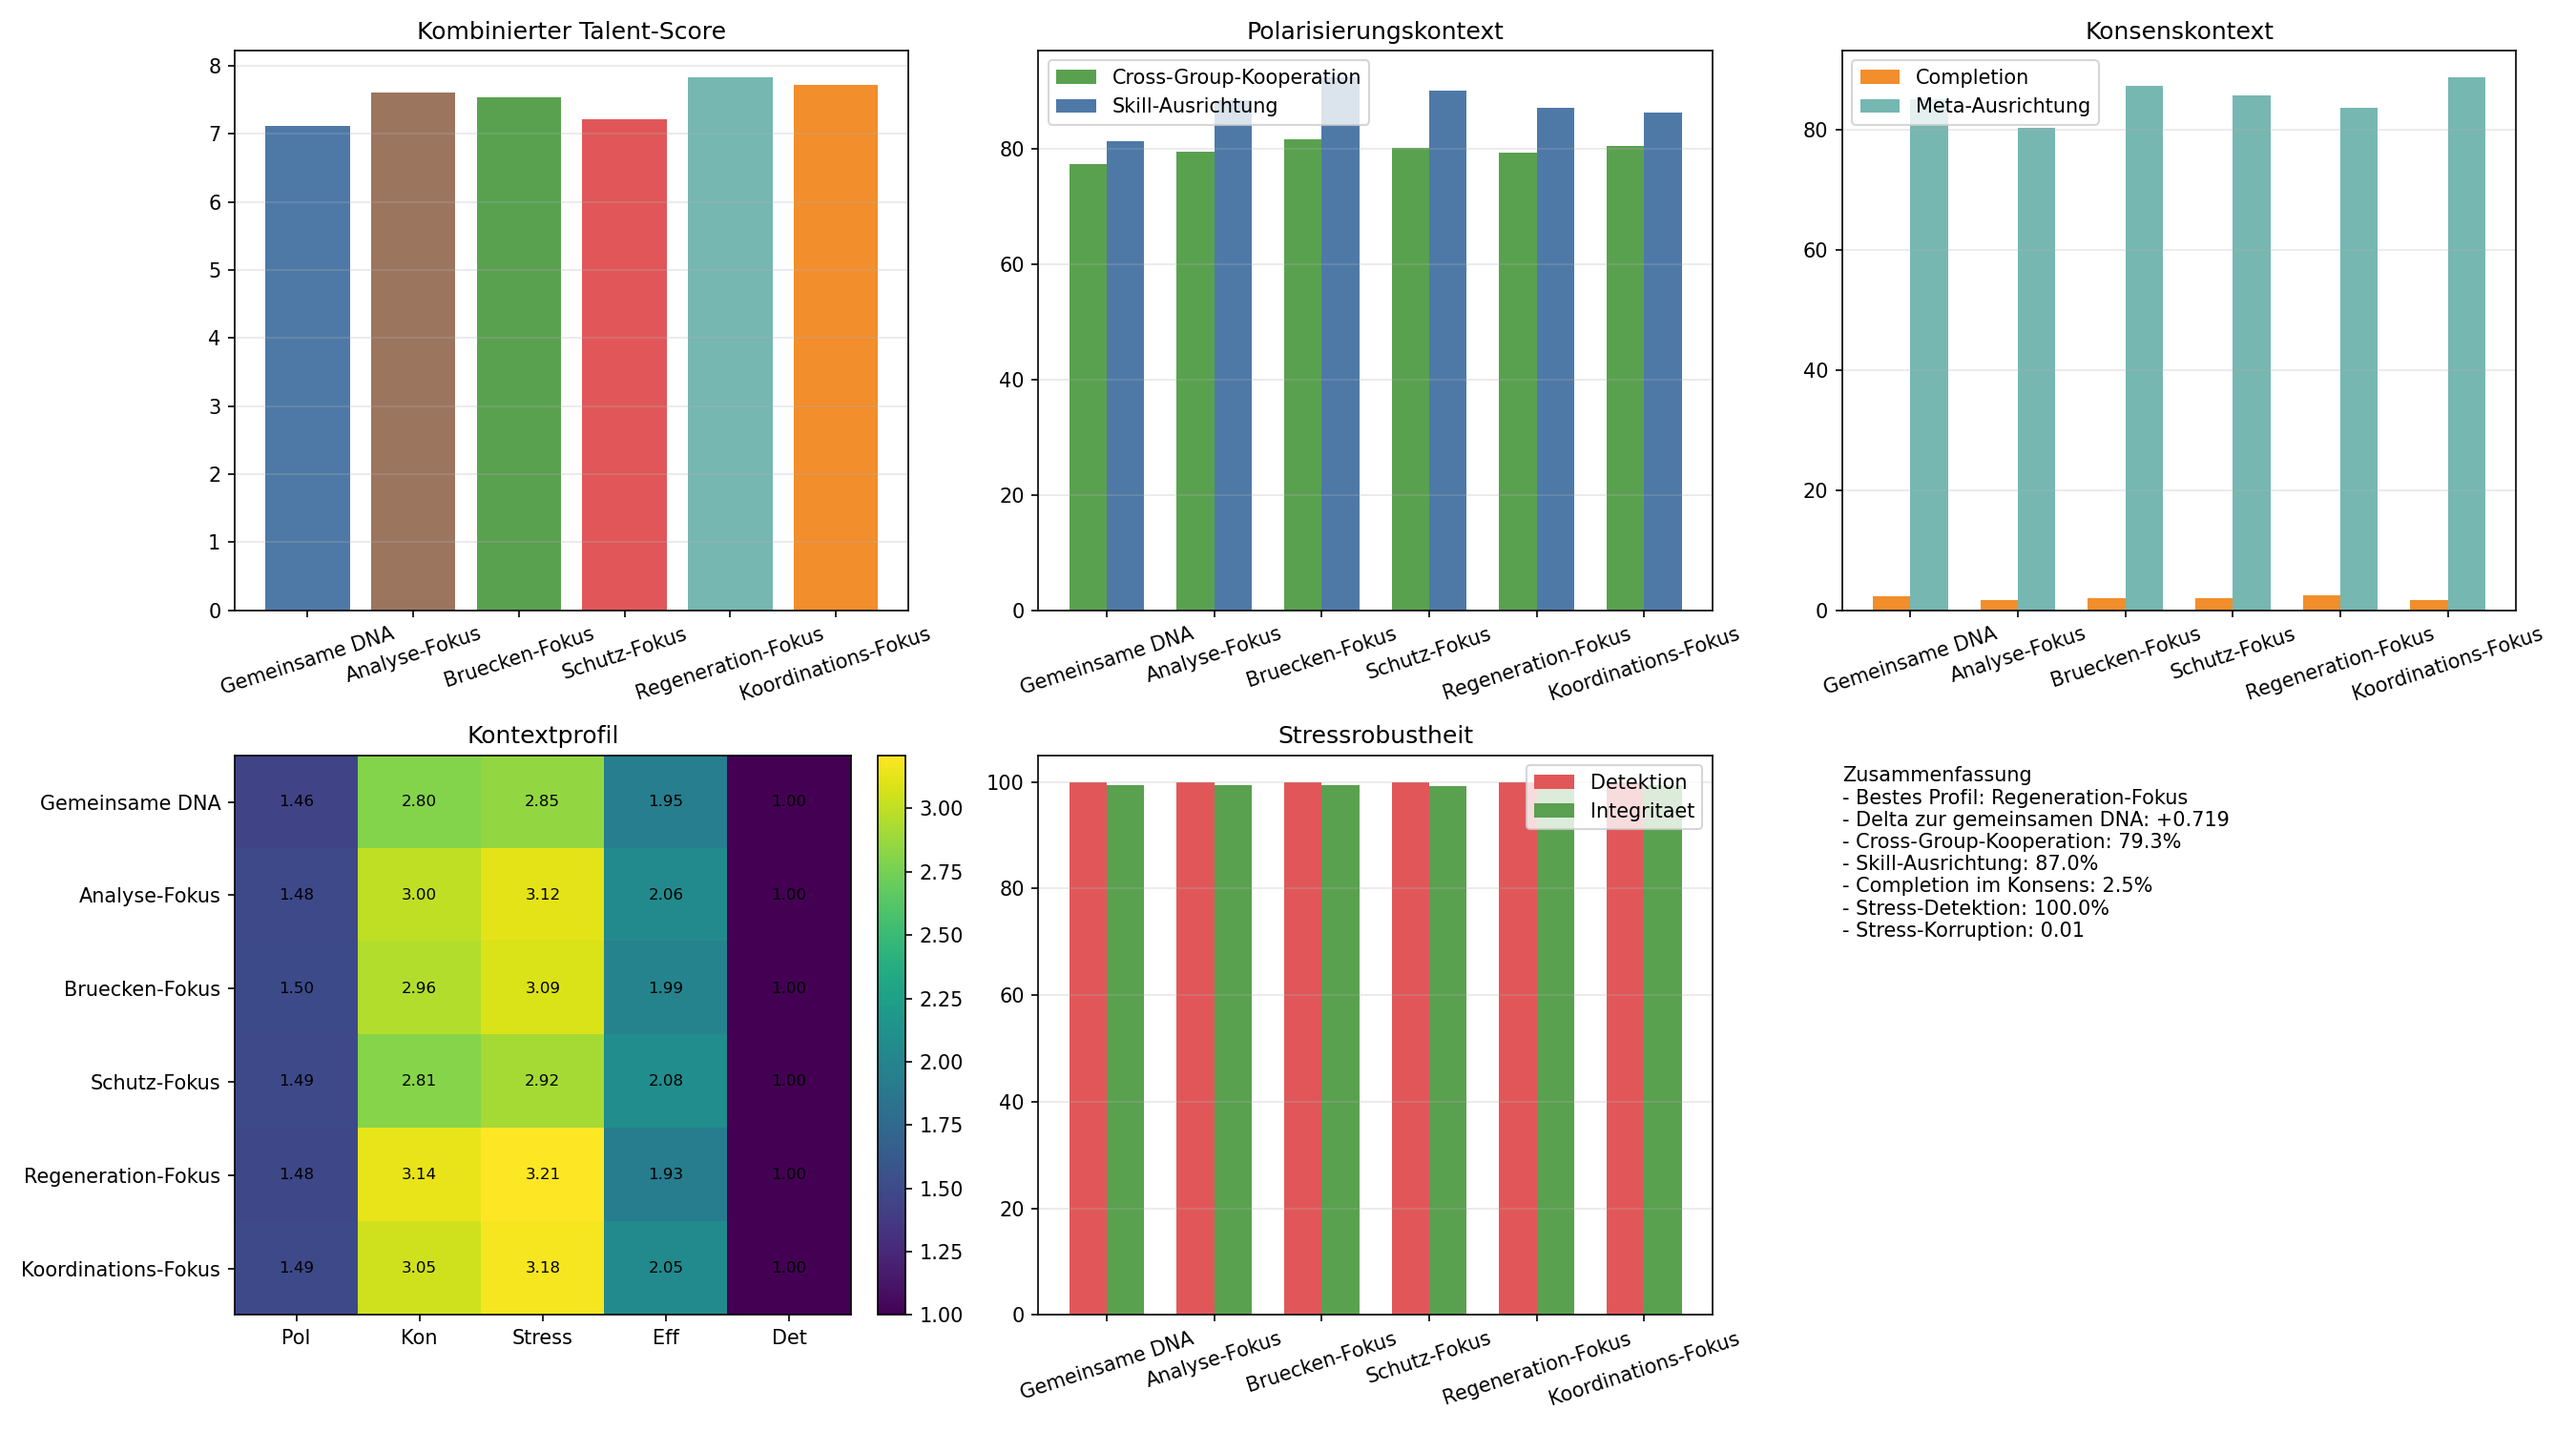
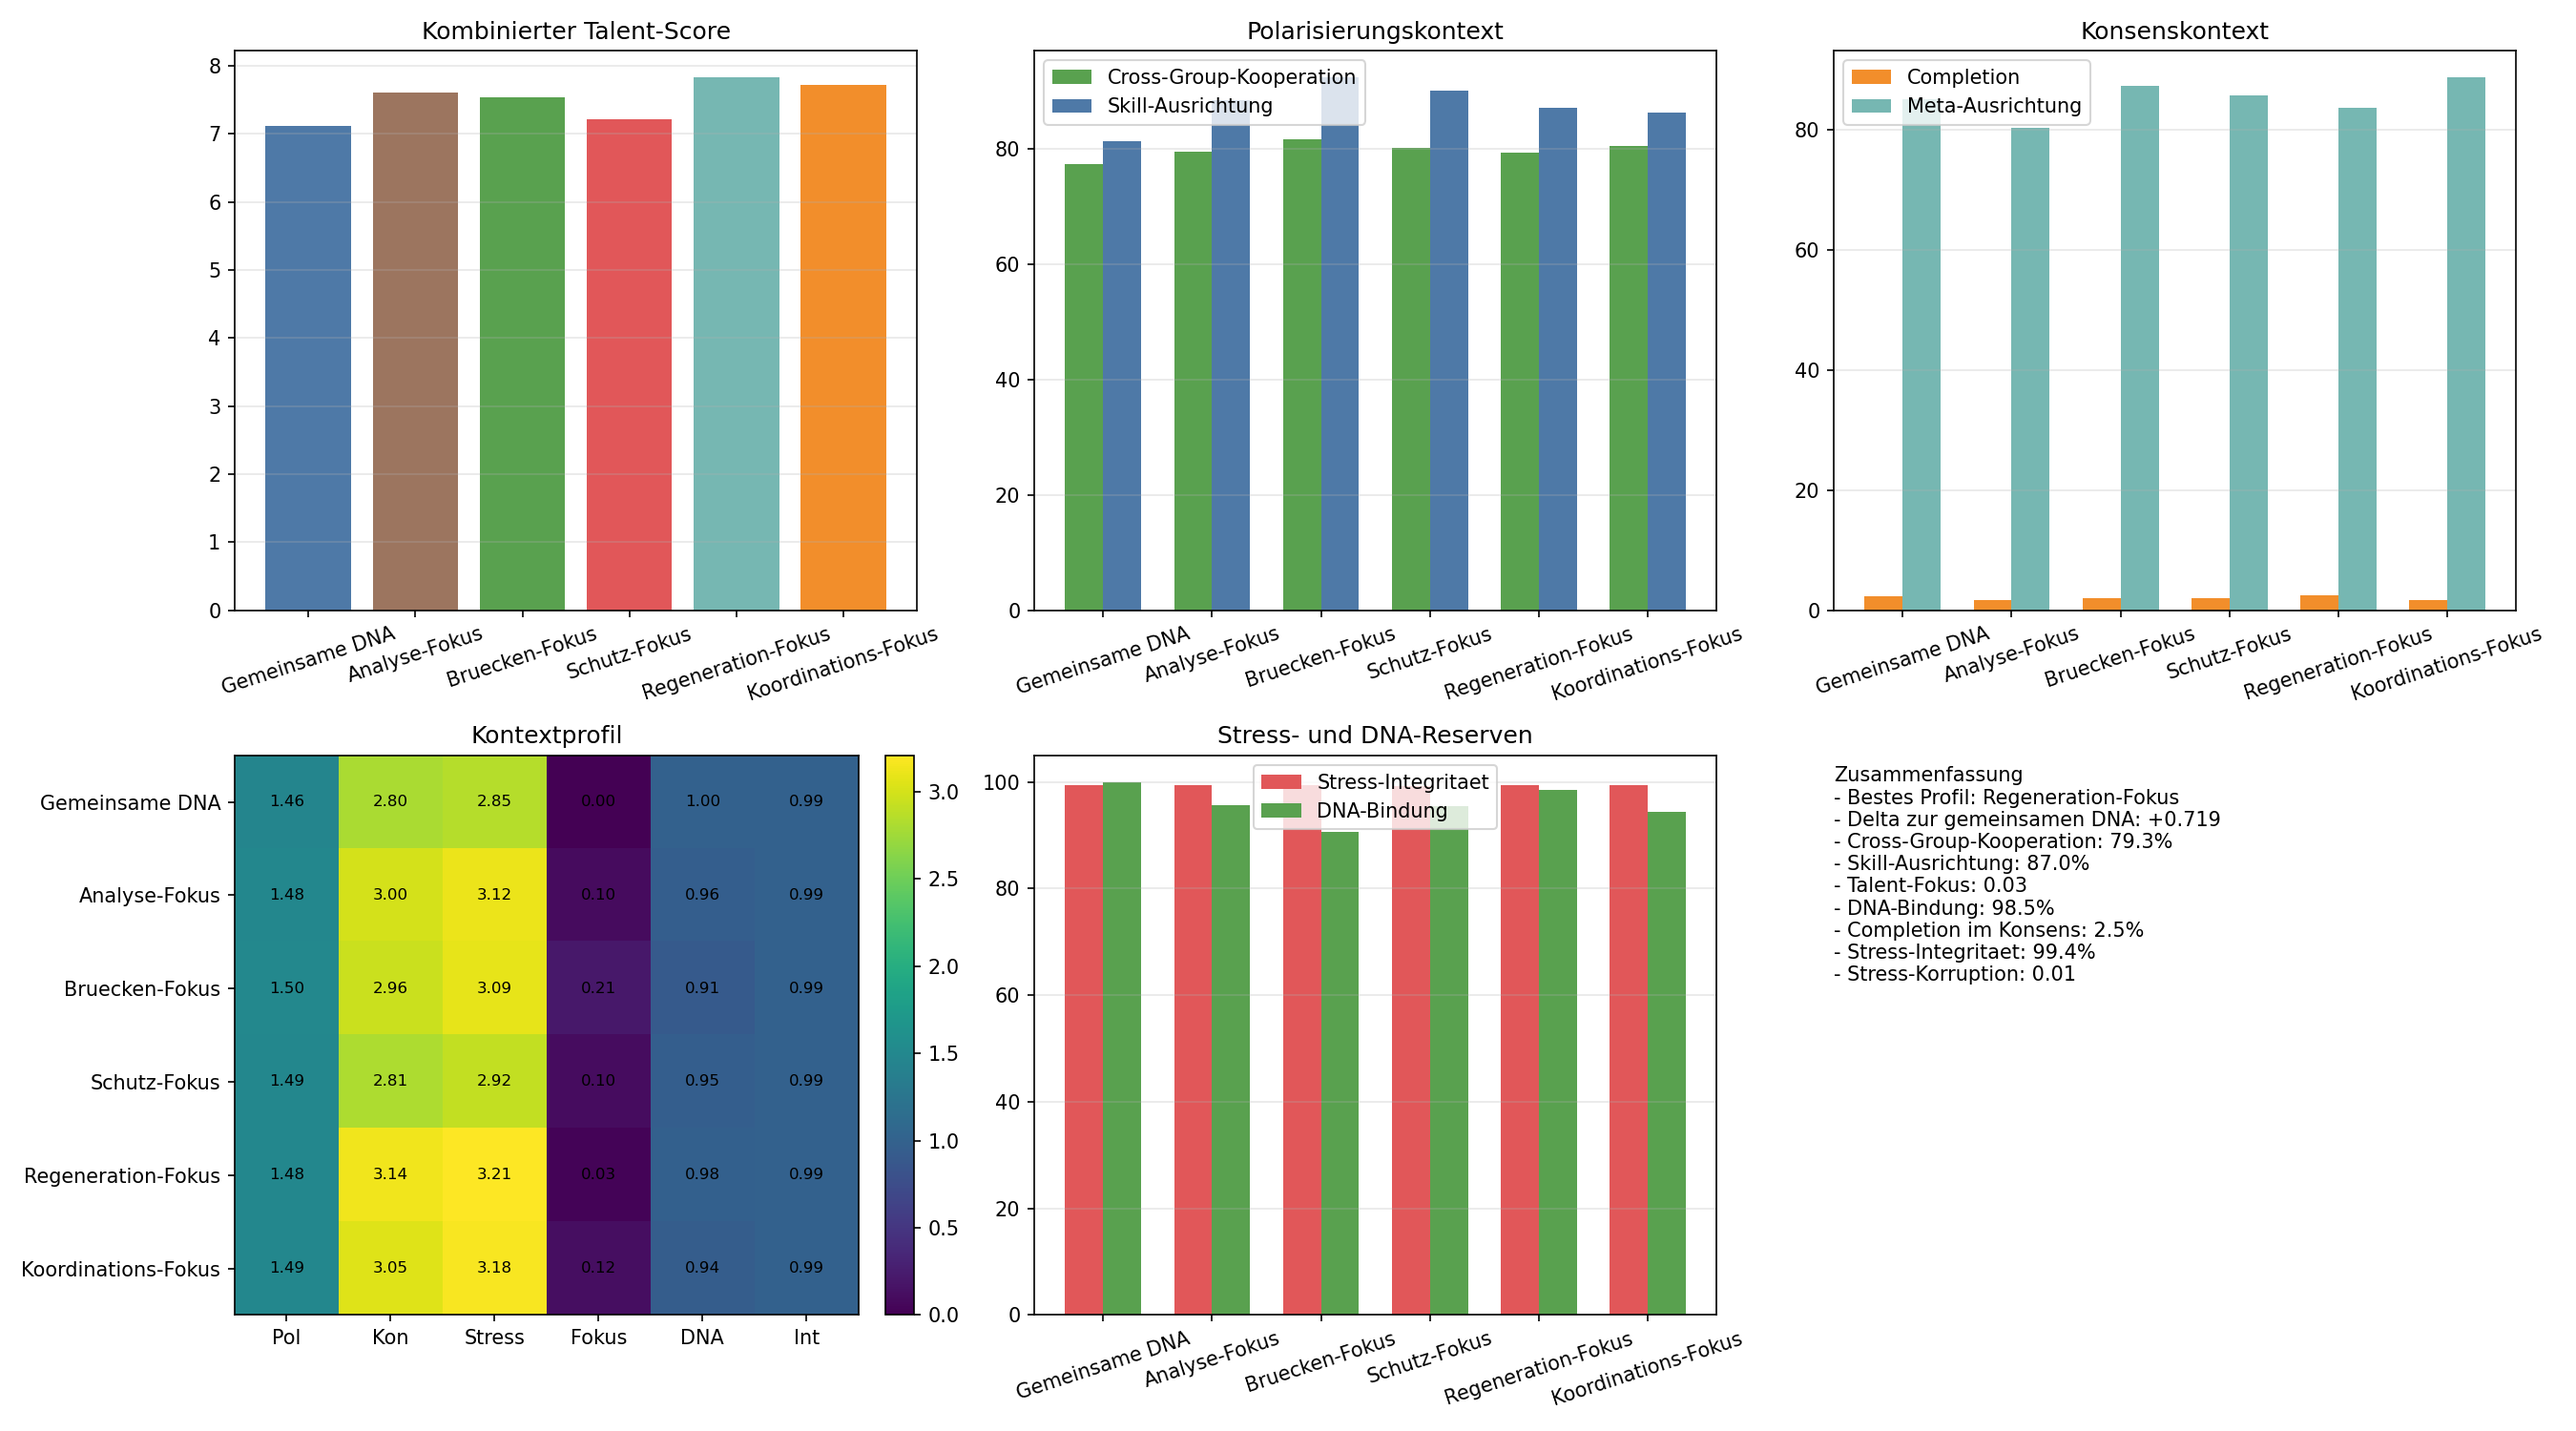
Refine group talent study metrics

diff --git a/schwarm_gruppentalente.py b/schwarm_gruppentalente.py
@@ -152,6 +152,40 @@ def build_profile(katalog, eintrag):
     return profile
 
 
+def talent_identity_metrics(config):
+    shared = basis_dna()
+    share_keys = [
+        'generalist_share',
+        'connector_share',
+        'sentinel_share',
+        'mediator_share',
+        'analyzer_share',
+    ]
+    capability_keys = [
+        'group_learning_rate',
+        'meta_priority_strength',
+        'cluster_budget_skew',
+        'rewire_cross_group_bonus',
+        'connector_bridge_bonus',
+        'connector_cross_group_learning_bonus',
+        'mediator_bridge_bonus',
+        'sentinel_rep_threshold',
+        'analyzer_memory_window',
+    ]
+    deviations = []
+    for key in share_keys + capability_keys:
+        baseline = float(shared[key])
+        current = float(config.get(key, baseline))
+        deviations.append(abs(current - baseline) / max(0.05, abs(baseline)))
+
+    specialization_intensity = mittelwert(deviations)
+    dna_retention = max(0.0, 1.0 - specialization_intensity * 0.45)
+    return {
+        'specialization_intensity': specialization_intensity,
+        'dna_retention': dna_retention,
+    }
+
+
 def talent_metrics(result):
     workflow = result['workflow_metrics']
     return {
@@ -162,6 +196,7 @@ def talent_metrics(result):
         'learning_gain_rate': workflow.get('group_learning_gain_rate', 0.0),
         'detection_rate': workflow.get('misinformation_detection_rate', 0.0),
         'corruption_mean': workflow.get('misinformation_corruption_mean', 0.0),
+        'stress_integrity': max(0.0, 1.0 - workflow.get('misinformation_corruption_mean', 0.0)),
         'cross_group_cooperation': result['cross_group_cooperation_rate'],
         'consensus': result['final_consensus_score'],
         'polarization': result['final_polarization_index'],
@@ -188,7 +223,9 @@ def run_context(seed, params, katalog, eintrag, kontext):
         config['enable_prompt_injection'] = False
 
     result = run_polarization_experiment(config, make_plot=False, print_summary=False)
-    result['talent_metrics'] = talent_metrics(result)
+    metrics = talent_metrics(result)
+    metrics.update(talent_identity_metrics(config))
+    result['talent_metrics'] = metrics
     return result
 
 
@@ -231,7 +268,10 @@ def summarize_runs(runs, eintrag, context_list):
         'learning_gain_rate': {},
         'detection_rate': {},
         'corruption_mean': {},
+        'stress_integrity': {},
         'cross_group_cooperation': {},
+        'specialization_intensity': {},
+        'dna_retention': {},
     }
 
     for kontext in context_list:
@@ -287,7 +327,8 @@ def main():
             f"{summary['label']:<24} Score={summary['combined_score']:+.3f} | "
             f"Koop={summary['cross_group_cooperation']['polarization']:.1%} | "
             f"Skill={summary['skill_alignment_rate']['polarization']:.1%} | "
-            f"Stress-Detektion={summary['detection_rate']['stress']:.1%}"
+            f"Stress-Integritaet={summary['stress_integrity']['stress']:.1%} | "
+            f"Talent-Fokus={summary['specialization_intensity']['consensus']:.2f}"
         )
 
     best = max(summaries, key=lambda item: item['combined_score'])
@@ -300,7 +341,8 @@ def main():
     print(
         f"Kooperation {best['cross_group_cooperation']['polarization']:.1%}, "
         f"Meta-Ausrichtung {best['meta_alignment_rate']['consensus']:.1%}, "
-        f"Stress-Detektion {best['detection_rate']['stress']:.1%}"
+        f"Stress-Integritaet {best['stress_integrity']['stress']:.1%}, "
+        f"DNA-Bindung {best['dna_retention']['consensus']:.1%}"
     )
 
     labels = [item['label'] for item in summaries]
@@ -362,8 +404,9 @@ def main():
                 item['context_scores']['polarization'],
                 item['context_scores']['consensus'],
                 item['context_scores']['stress'],
-                item['resource_efficiency']['stress'],
-                item['detection_rate']['stress'],
+                item['specialization_intensity']['consensus'],
+                item['dna_retention']['consensus'],
+                item['stress_integrity']['stress'],
             ]
             for item in summaries
         ],
@@ -371,8 +414,8 @@ def main():
     )
     heatmap = axes[1, 0].imshow(heatmap_data, cmap='viridis', aspect='auto')
     axes[1, 0].set_title('Kontextprofil')
-    axes[1, 0].set_xticks([0, 1, 2, 3, 4])
-    axes[1, 0].set_xticklabels(['Pol', 'Kon', 'Stress', 'Eff', 'Det'])
+    axes[1, 0].set_xticks([0, 1, 2, 3, 4, 5])
+    axes[1, 0].set_xticklabels(['Pol', 'Kon', 'Stress', 'Fokus', 'DNA', 'Int'])
     axes[1, 0].set_yticks(range(len(labels)))
     axes[1, 0].set_yticklabels(labels)
     for row in range(heatmap_data.shape[0]):
@@ -382,19 +425,19 @@ def main():
 
     axes[1, 1].bar(
         x - width / 2,
-        [item['detection_rate']['stress'] * 100.0 for item in summaries],
+        [item['stress_integrity']['stress'] * 100.0 for item in summaries],
         width,
-        label='Detektion',
+        label='Stress-Integritaet',
         color='#e15759',
     )
     axes[1, 1].bar(
         x + width / 2,
-        [(1.0 - item['corruption_mean']['stress']) * 100.0 for item in summaries],
+        [item['dna_retention']['consensus'] * 100.0 for item in summaries],
         width,
-        label='Integritaet',
+        label='DNA-Bindung',
         color='#59a14f',
     )
-    axes[1, 1].set_title('Stressrobustheit')
+    axes[1, 1].set_title('Stress- und DNA-Reserven')
     axes[1, 1].set_xticks(x)
     axes[1, 1].set_xticklabels(labels, rotation=18)
     axes[1, 1].legend()
@@ -410,8 +453,10 @@ def main():
             f"- Delta zur gemeinsamen DNA: {best['combined_score'] - baseline['combined_score']:+.3f}\n"
             f"- Cross-Group-Kooperation: {best['cross_group_cooperation']['polarization']:.1%}\n"
             f"- Skill-Ausrichtung: {best['skill_alignment_rate']['polarization']:.1%}\n"
+            f"- Talent-Fokus: {best['specialization_intensity']['consensus']:.2f}\n"
+            f"- DNA-Bindung: {best['dna_retention']['consensus']:.1%}\n"
             f"- Completion im Konsens: {best['completion_rate']['consensus']:.1%}\n"
-            f"- Stress-Detektion: {best['detection_rate']['stress']:.1%}\n"
+            f"- Stress-Integritaet: {best['stress_integrity']['stress']:.1%}\n"
             f"- Stress-Korruption: {best['corruption_mean']['stress']:.2f}"
         ),
         va='top',
